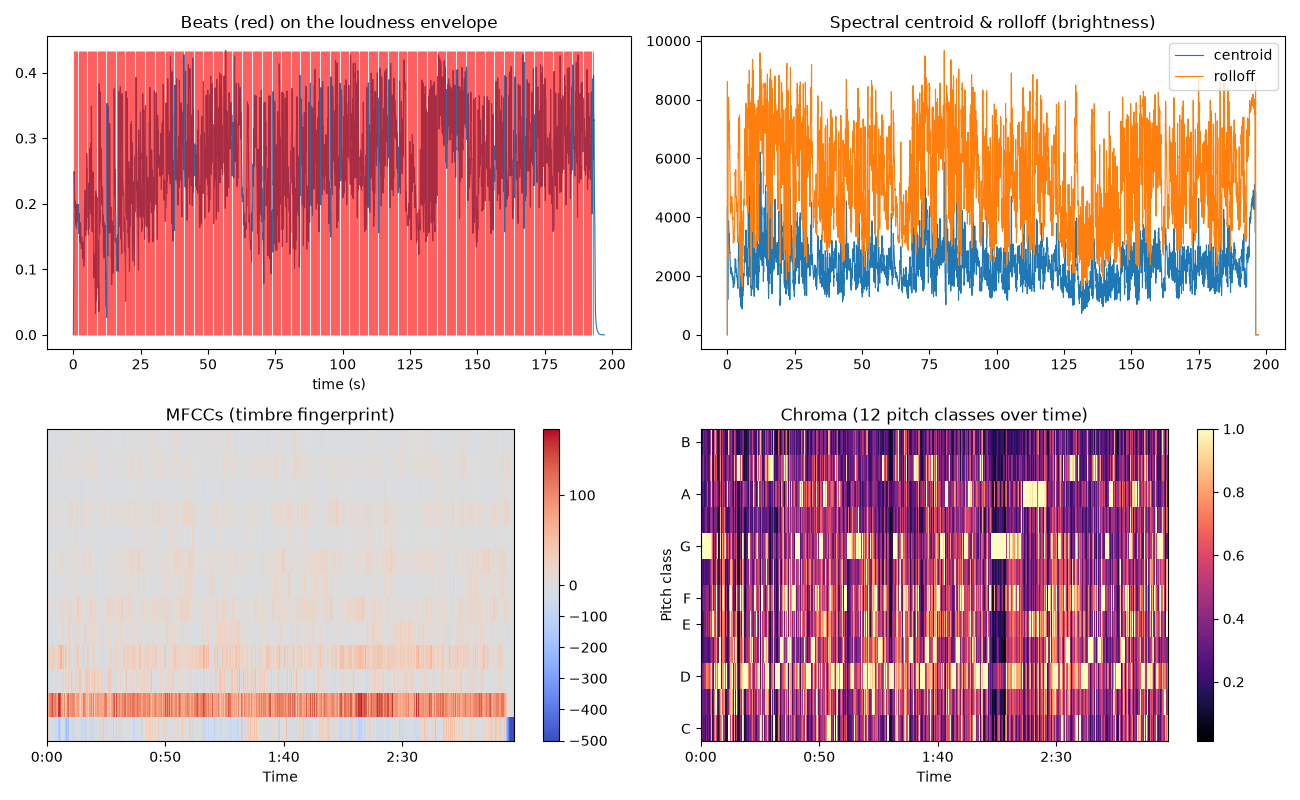
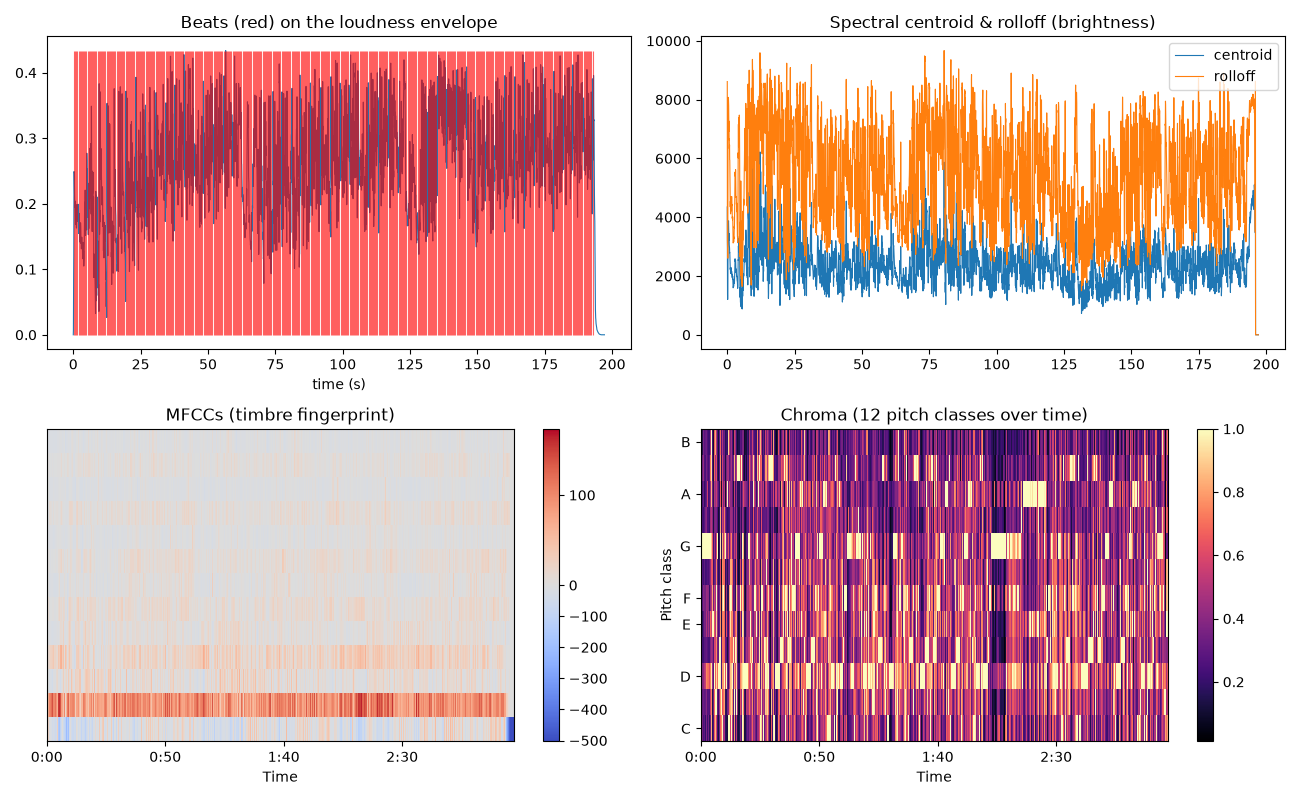
feat: enhance beat reporting with conditional message for detected beats

Changed region(s): [[0.5538, 0.0938, 0.9846, 0.375]]

diff --git a/src/06_features.py b/src/06_features.py
@@ -17,14 +17,18 @@ def main() -> None:
     tempo, beat_frames = librosa.beat.beat_track(y=y, sr=sr)
     tempo = float(np.asarray(tempo).mean())
     beat_times = librosa.frames_to_time(beat_frames, sr=sr)
+    if len(beat_times):
+        beats_str = f"{len(beat_times)} pulse points over {y.shape[0] / sr:.0f}s "
+        f"(first at {beat_times[0]:.2f}s, last at {beat_times[-1]:.2f}s)"
+    else:
+        beats_str = "no beats detected"
     report("tempo (BPM)", f"{float(tempo):.1f} beats per minute")
-    report("beats", f"{len(beat_times)} pulse points over {y.shape[0] / sr:.0f}s "
-                    f"(first at {beat_times[0]:.2f}s, last at {beat_times[-1]:.2f}s)")
+    report("beats", beats_str)
 
     # --- spectral features (built on the step-5 spectrogram) -------------
-    centroid = librosa.feature.spectral_centroid(y=y, sr=sr, n_fft=FRAME, hop_length=HOP)[0]
-    rolloff = librosa.feature.spectral_rolloff(y=y, sr=sr, n_fft=FRAME, hop_length=HOP)[0]
-    bandwidth = librosa.feature.spectral_bandwidth(y=y, sr=sr, n_fft=FRAME, hop_length=HOP)[0]
+    centroid = librosa.feature.spectral_centroid(y=y, sr=sr, n_fft=FRAME, hop_length=HOP, center=False)[0]
+    rolloff = librosa.feature.spectral_rolloff(y=y, sr=sr, n_fft=FRAME, hop_length=HOP, center=False)[0]
+    bandwidth = librosa.feature.spectral_bandwidth(y=y, sr=sr, n_fft=FRAME, hop_length=HOP, center=False)[0]
     report("spectral centroid", f"{centroid.mean():6.0f} Hz avg brightness "
                                 f"(min {centroid.min():.0f}, max {centroid.max():.0f})")
     report("spectral rolloff", f"{rolloff.mean():6.0f} Hz avg - 85% of energy is below this")
